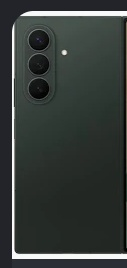
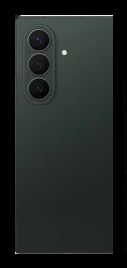
style: set fold 3d showcase background to pure black

Changed region(s): [[0.0, 0.0, 1.0, 1.0]]

diff --git a/src/components/site/Fold3D.tsx b/src/components/site/Fold3D.tsx
@@ -13,14 +13,16 @@ export function Fold3D() {
           display: flex;
           align-items: center;
           justify-content: center;
-          background: transparent;
+          background: #000;
+          border-radius: 20px;
+          padding: 12px;
         }
 
         .fold-stage {
           position: relative;
           width: 160px;
           height: 260px;
-          background: transparent;
+          background: #000;
           flex-shrink: 0;
           transition: transform 0.4s cubic-bezier(0.16, 1, 0.3, 1);
         }

diff --git a/src/routes/index.tsx b/src/routes/index.tsx
@@ -174,7 +174,7 @@ function Home() {
           </div>
 
           {/* Embedded 3D Galaxy Z Fold 8 Ultra showcase positioned right beside brands */}
-          <div className="flex justify-center border-t border-border/40 pt-8 lg:border-t-0 lg:pt-0 lg:pl-6">
+          <div className="flex justify-center items-center border-t border-border/40 pt-8 lg:border-t-0 lg:pt-0 lg:pl-6 bg-black rounded-2xl">
             <Fold3D />
           </div>
         </div>
